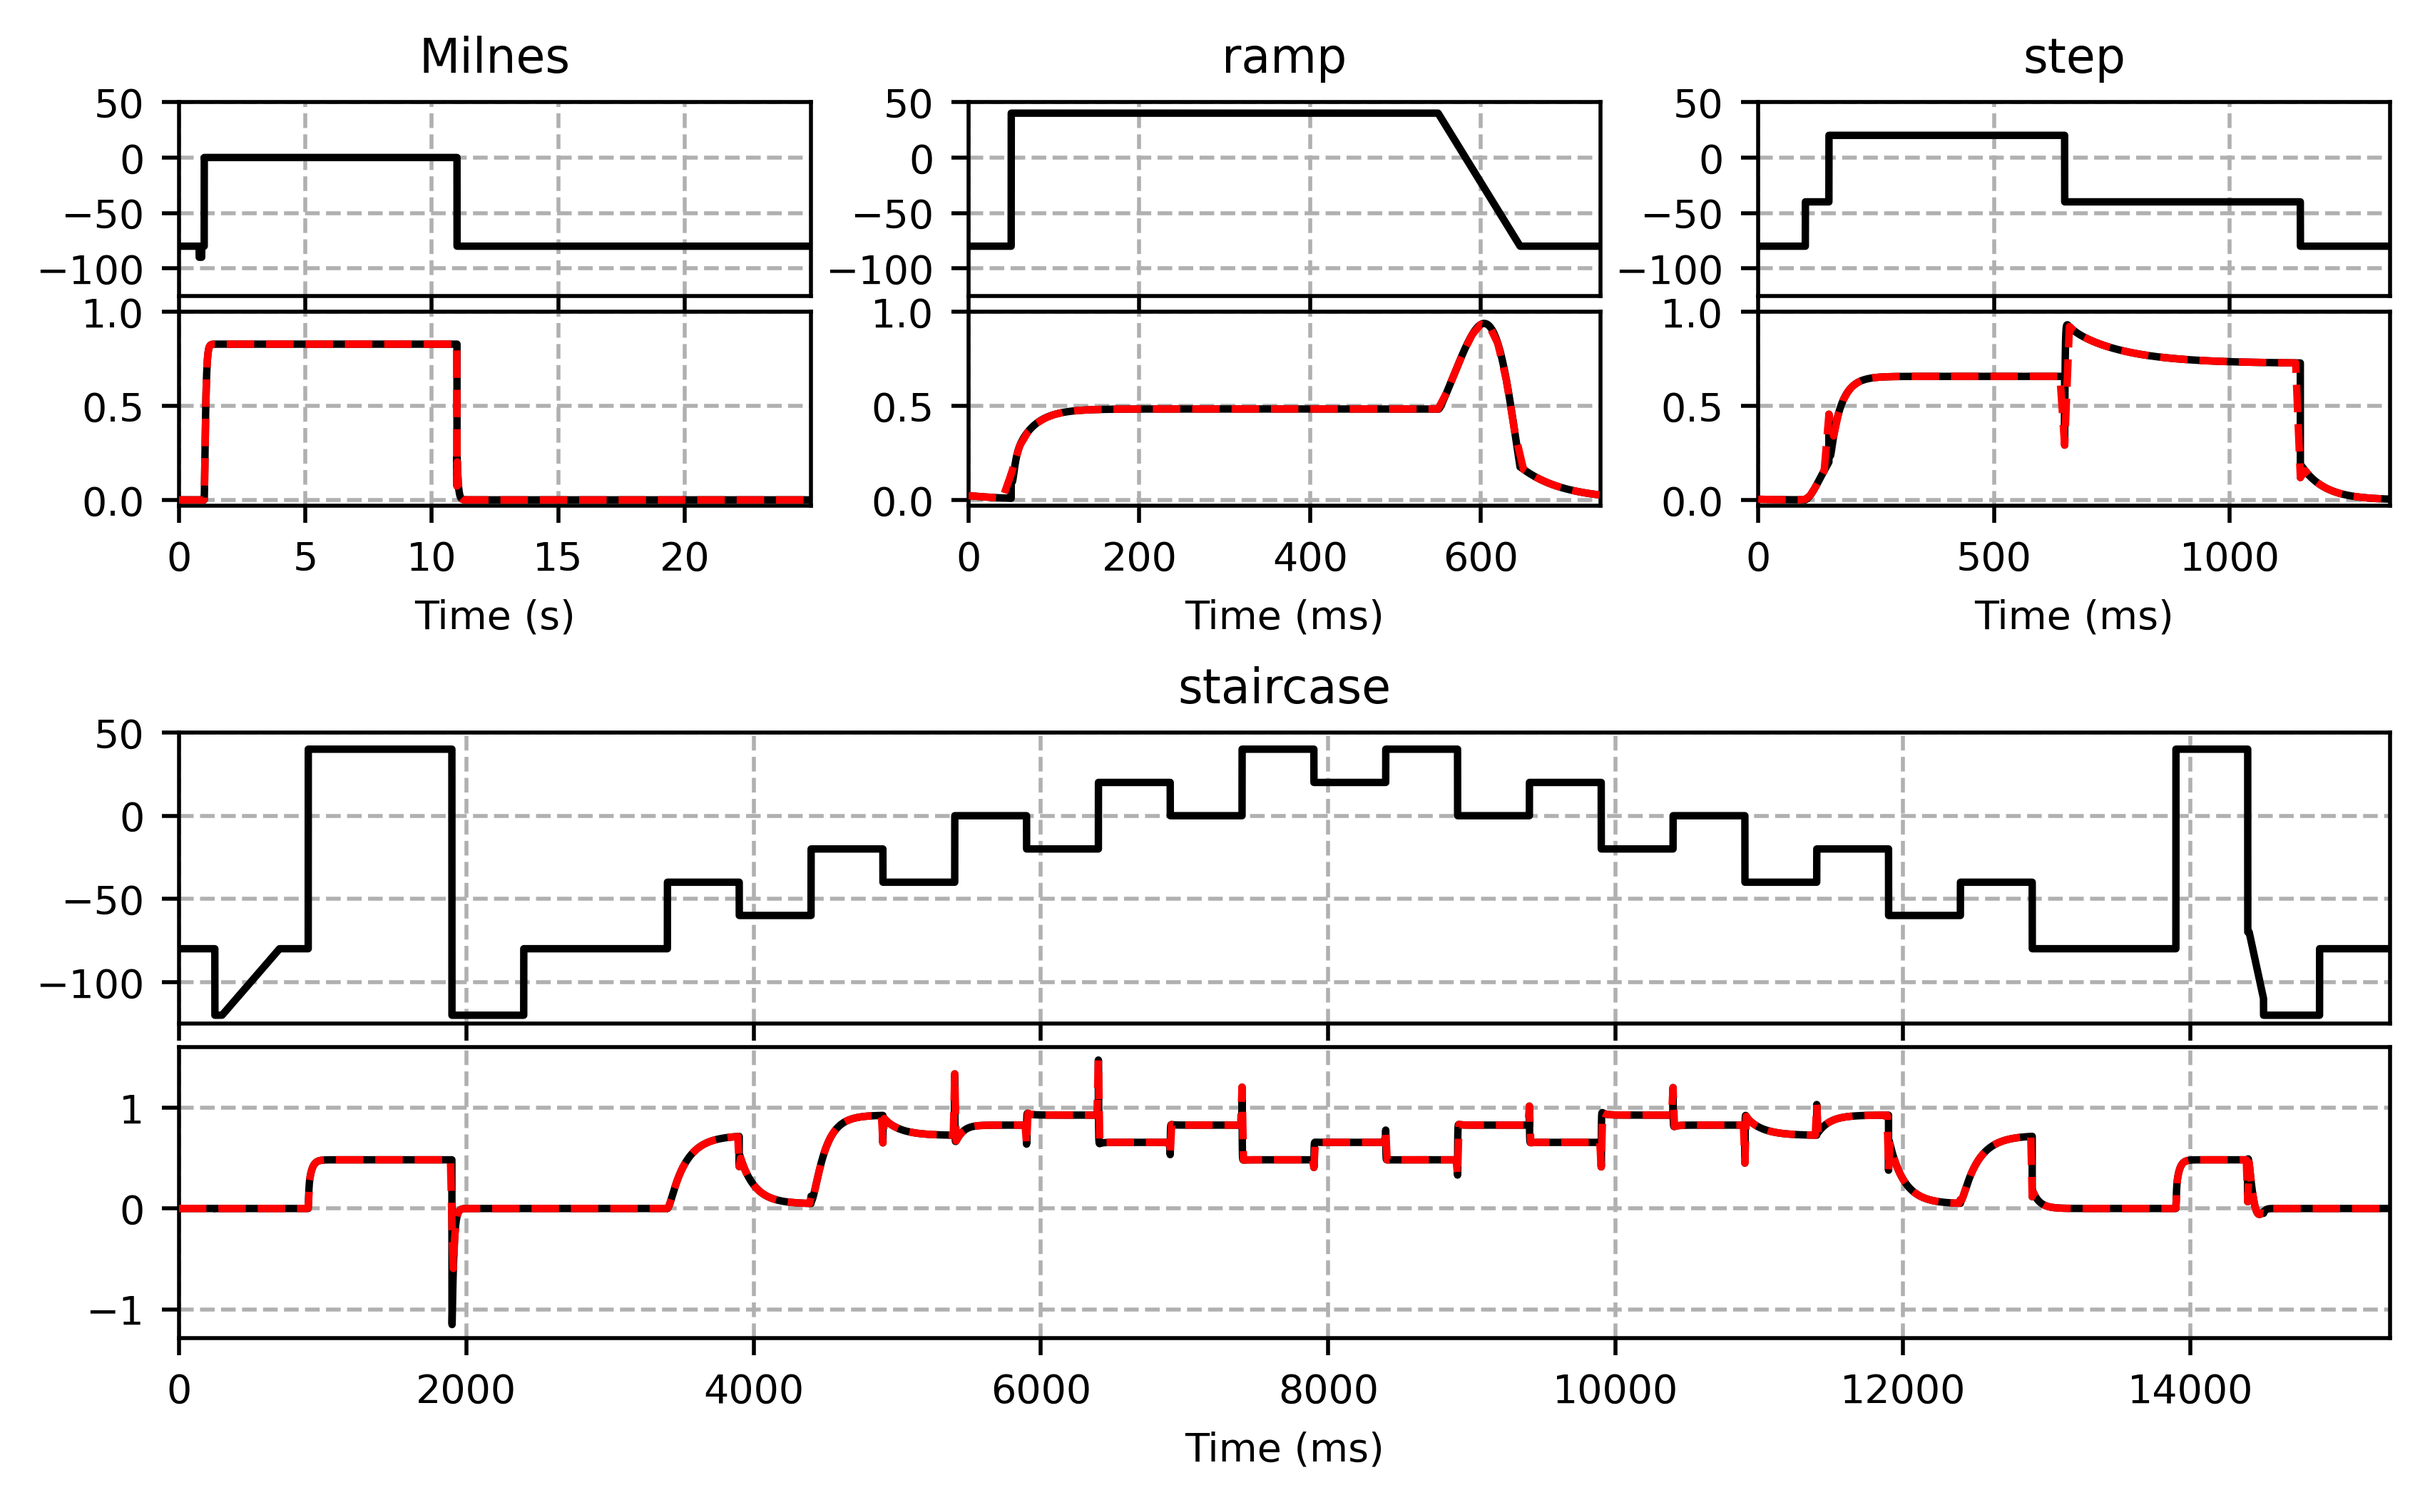
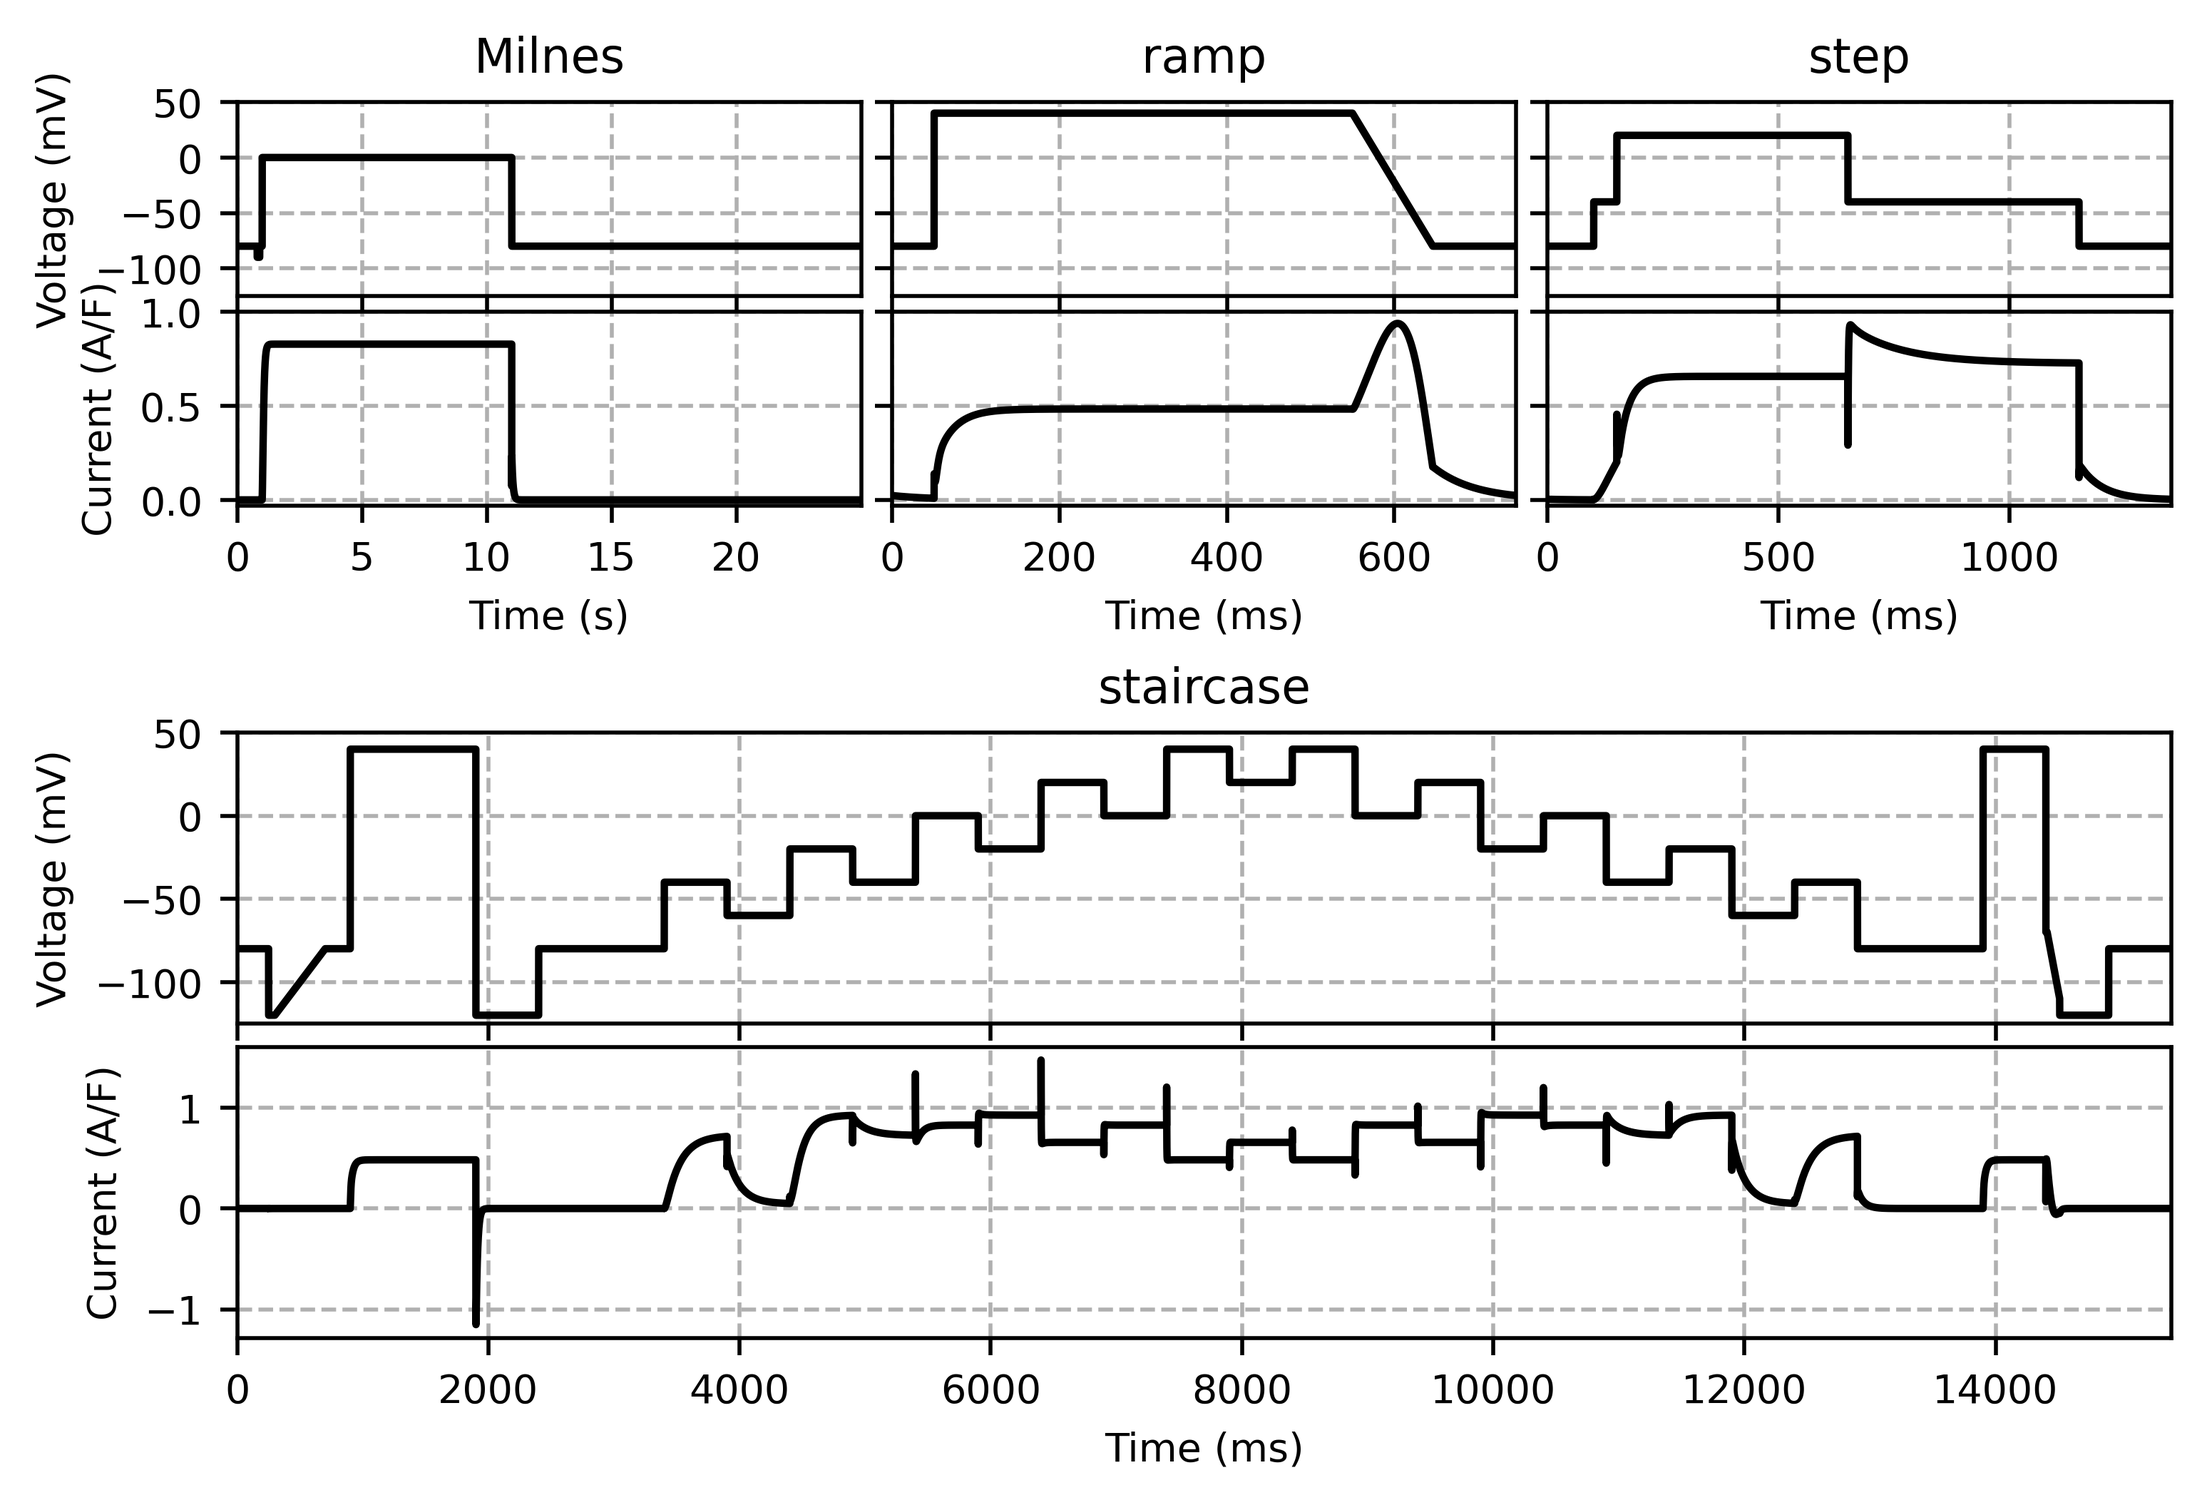
Adjust figure of protocol simulation

diff --git a/scripts/control_states.py b/scripts/control_states.py
@@ -8,8 +8,8 @@ model = 'Li-SD'
 protocol_list = ['Milnes', 'ramp', 'step', 'staircase']
 
 plt.rcParams.update({'font.size': 8})
-fig = plt.figure(figsize=(8, 4.5))
-gs = fig.add_gridspec(2, 3, wspace=0.25, hspace=0.45, height_ratios=[2, 3])
+fig = plt.figure(figsize=(7, 4.5))
+gs = fig.add_gridspec(2, 3, wspace=0.05, hspace=0.45, height_ratios=[2, 3])
 
 subgridspecs = (2, 1)
 subgs = []
@@ -42,19 +42,20 @@ for p, prot in enumerate(protocol_list):
         axs[p][0][0].plot(log.time(), log[sim.Vm_key], 'k', zorder=5)
         axs[p][1][0].plot(log.time(), log[sim.ikr_key], 'k', zorder=5)
 
-    log = sim.simulate(timestep=10)
-    log.save_csv(os.path.join(results_dir, f'control_log_{prot}_dt10.csv'))
+    # log = sim.simulate(timestep=10)
+    # log.save_csv(os.path.join(results_dir, f'control_log_{prot}_dt10.csv'))
 
     # Create figure for stimulus protocols only
     if p == 0:
-        axs[p][1][0].plot(log.time() / 1e3, log[sim.ikr_key], 'r--', zorder=5)
+        # axs[p][1][0].plot(log.time() / 1e3, log[sim.ikr_key], 'r--', zorder=5)
         axs[p][1][0].set_xlabel('Time (s)')
         axs[p][0][0].set_xlim(0, max(log.time() / 1e3))
+        axs[p][0][0].set_ylabel('Voltage (mV)')
+        axs[p][1][0].set_ylabel('Current (A/F)')
     else:
-        axs[p][1][0].plot(log.time(), log[sim.ikr_key], 'r--', zorder=5)
+        # axs[p][1][0].plot(log.time(), log[sim.ikr_key], 'r--', zorder=5)
         axs[p][1][0].set_xlabel('Time (ms)')
         axs[p][0][0].set_xlim(0, max(log.time()))
-    # panel_protocol.set_ylabel('Voltage (mV)')
     axs[p][1][0].sharex(axs[p][0][0])
     axs[p][0][0].tick_params(labelbottom=False)
     axs[p][0][0].set_title(prot)
@@ -62,9 +63,15 @@ for p, prot in enumerate(protocol_list):
     if p != 3:
         axs[p][1][0].set_ylim(-0.03, 1)
         axs[p][1][0].set_yticks([0, 0.5, 1])
+        if p != 0:
+            axs[p][0][0].tick_params(labelleft=False)
+            axs[p][1][0].tick_params(labelleft=False)
     axs[p][0][0].grid(linestyle='--')
     axs[p][1][0].grid(linestyle='--')
     axs[p][0][0].set_yticks([-100, -50, 0, 50])
+
+axs[3][0][0].set_ylabel('Voltage (mV)')
+axs[3][1][0].set_ylabel('Current (A/F)')
 
 # Save protocol figure
 fig.savefig(os.path.join(modelling.FIG_DIR, 'sim-protocol.png'),
